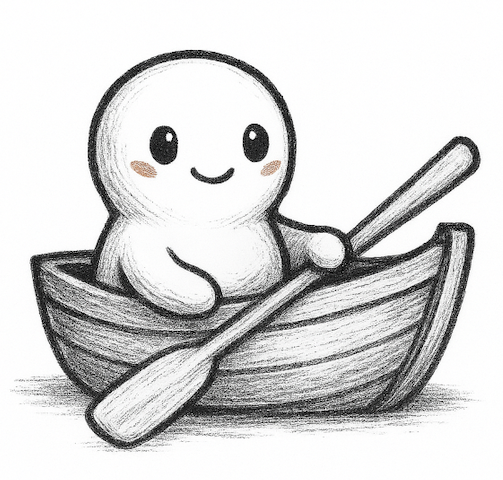
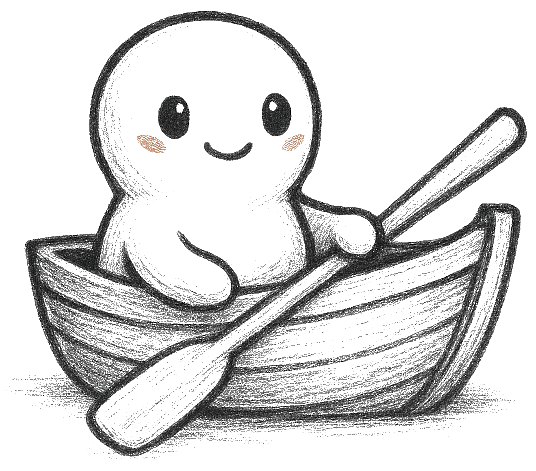
fix copilot mascot img

diff --git a/apps/rowboat/components/common/panel-common.tsx b/apps/rowboat/components/common/panel-common.tsx
@@ -1,6 +1,8 @@
 import clsx from "clsx";
 import { Sparkles } from "lucide-react";
 import { SHOW_COPILOT_MARQUEE } from "@/app/lib/feature_flags";
+import Image from "next/image";
+import mascot from "@/public/mascot.png";
 
 export function ActionButton({
     icon = null,
@@ -73,7 +75,7 @@ export function Panel({
         {variant === 'copilot' && showWelcome && (
             <div className="absolute inset-0 flex flex-col items-center justify-center pointer-events-none -mt-16">
                 {/* Replace Sparkles icon with mascot image */}
-                <img src="/mascot.png" alt="Rowboat Mascot" className="w-48 h-48 object-contain mb-2 animate-float" />
+                <Image src={mascot} alt="Rowboat Mascot" width={192} height={192} className="object-contain mb-2 animate-float" />
                 {SHOW_COPILOT_MARQUEE && (
                     <div className="relative mt-8 max-w-full px-8">
                         <div className="font-mono text-sm whitespace-nowrap text-blue-400/60 dark:text-blue-500/40 font-small inline-flex">
